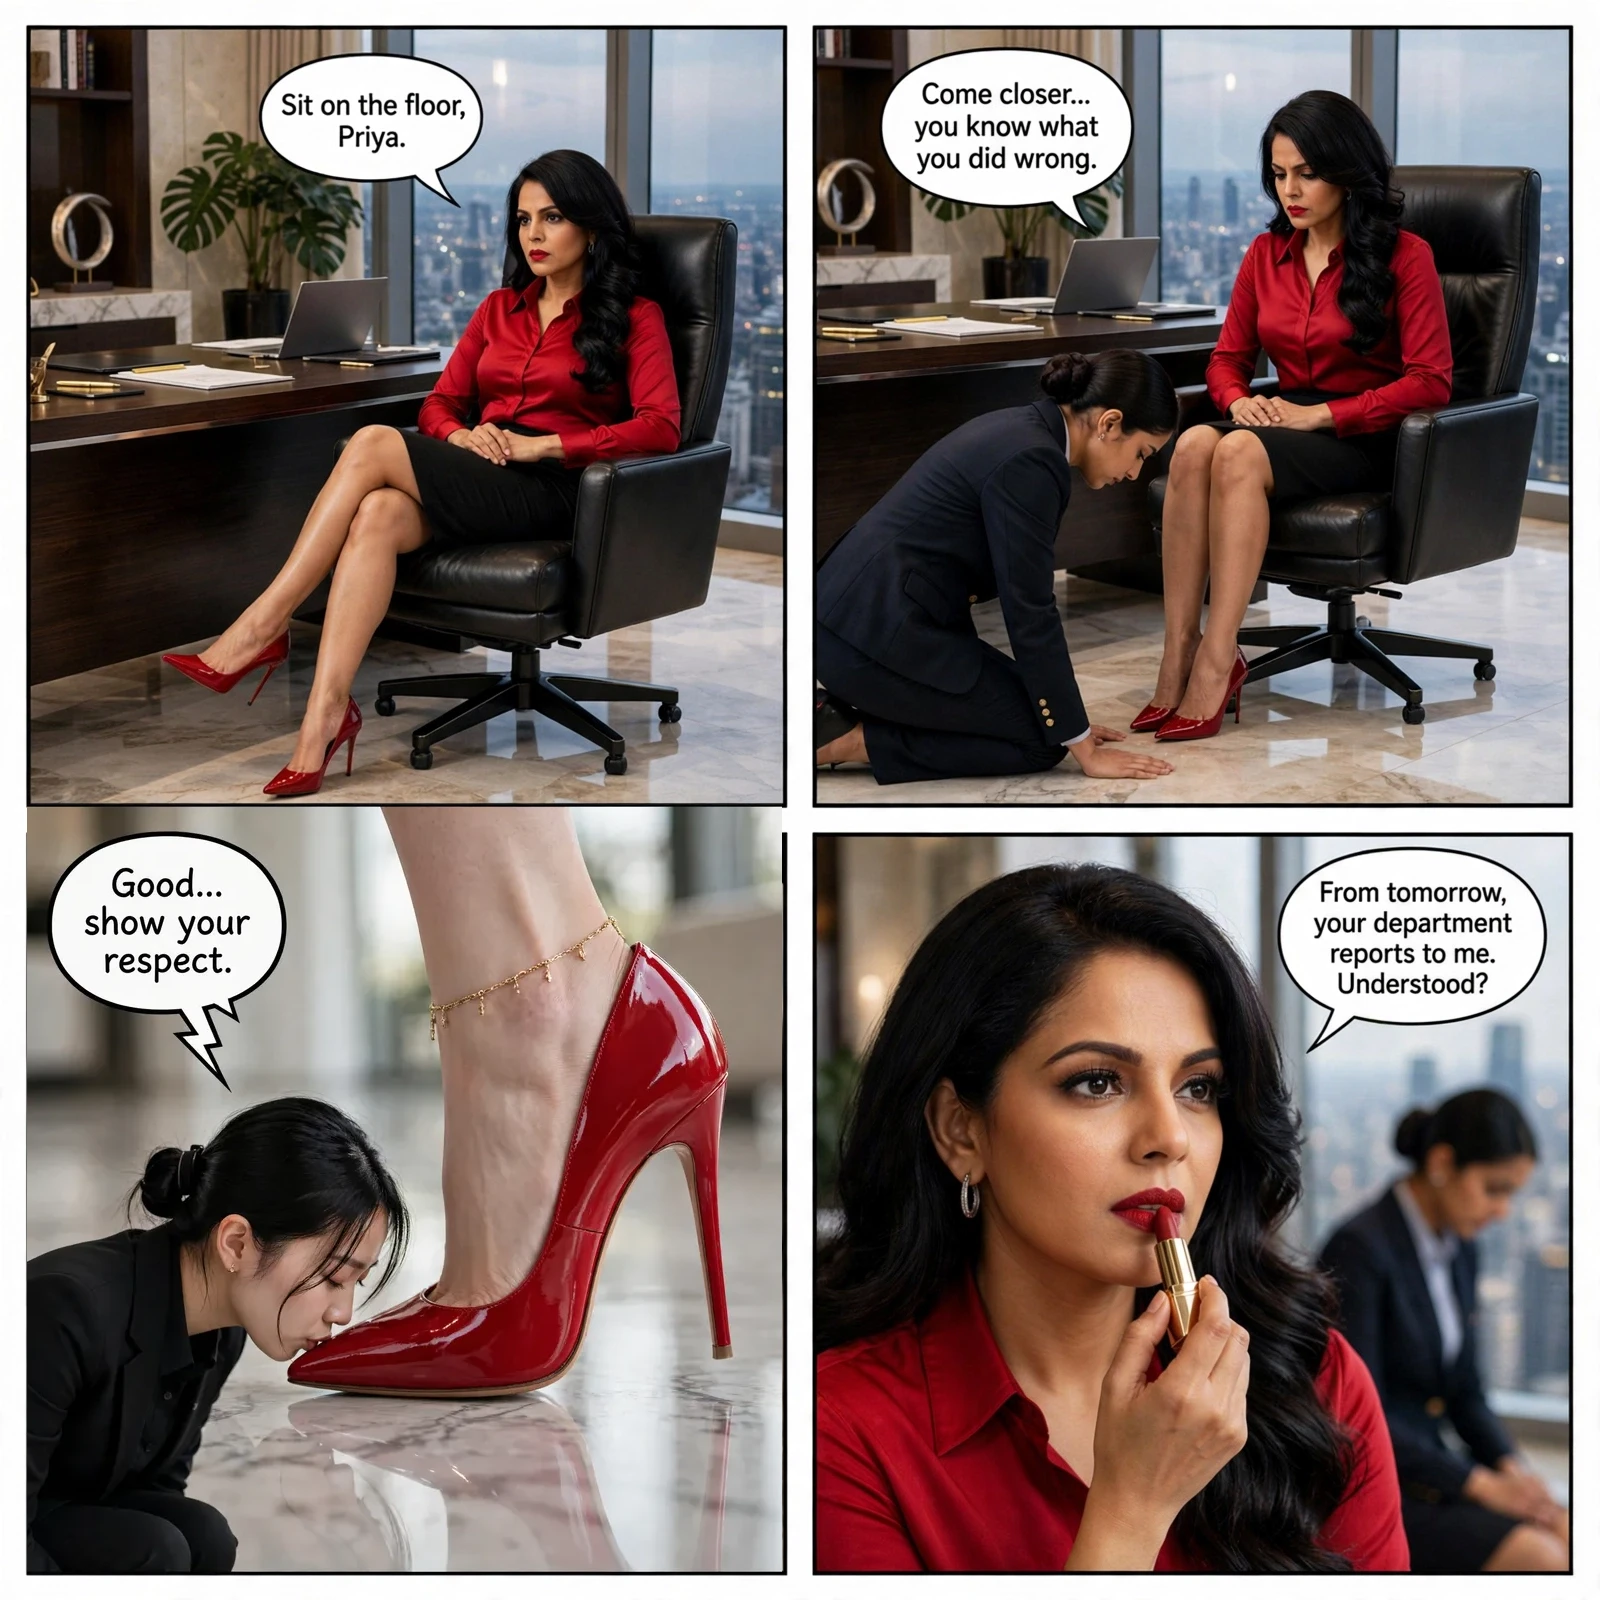
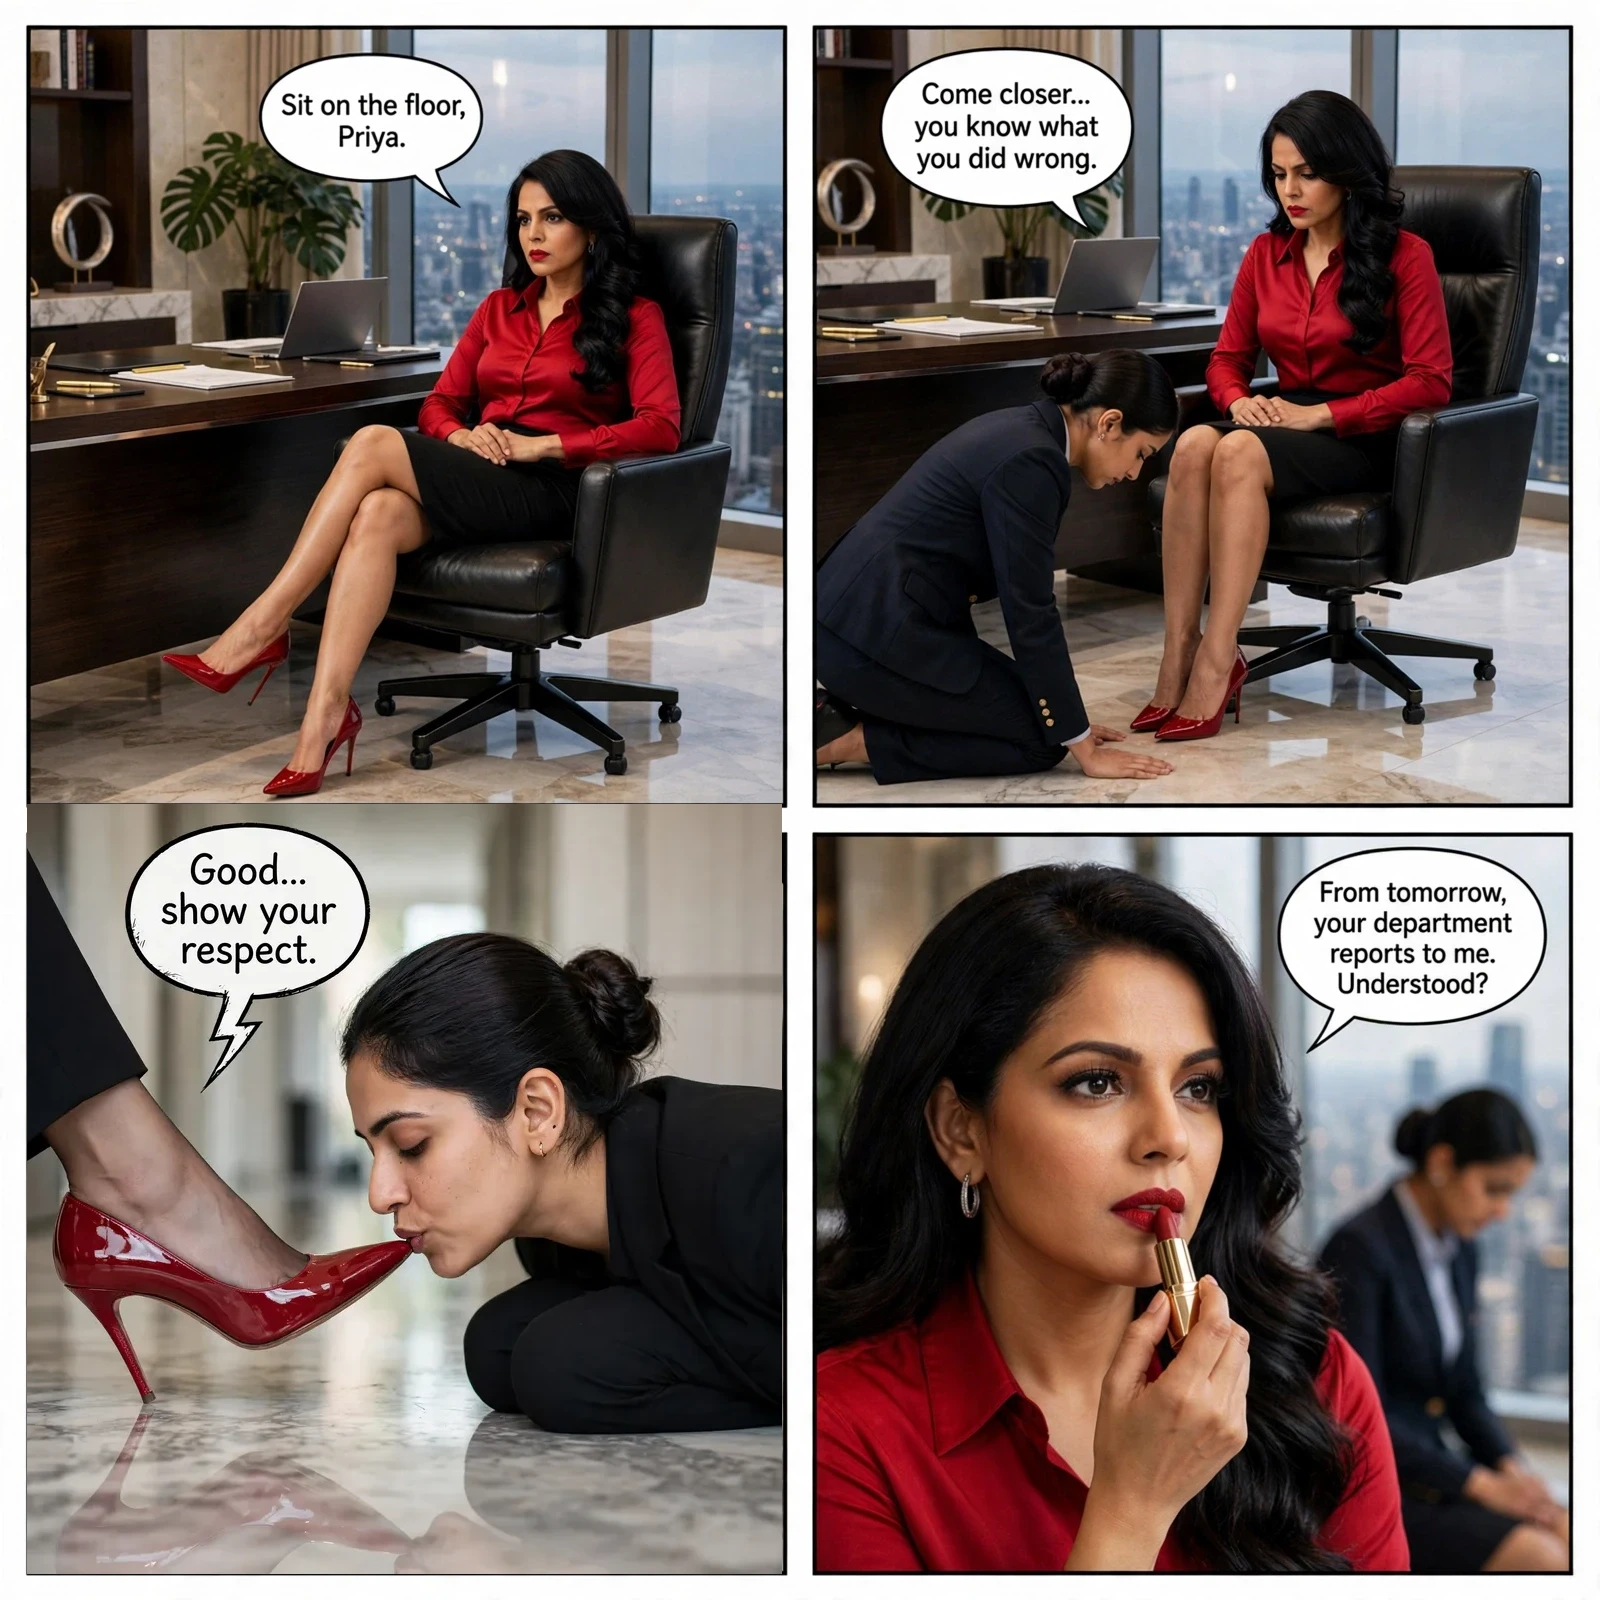
feat(ep4): re-direct panel 3 with 85mm true-scale side profile and 1:1 natural foot-to-face proportion

Changed region(s): [[0.0, 0.5, 0.5, 1.0]]

diff --git a/memory.md b/memory.md
@@ -1450,3 +1450,12 @@ Users don't just generate disconnected one-off strips. They build **persistent c
   - Tightened `maxAttempts` to 2 with a fast 1-second backoff delay in `src/app/api/generate-image/route.ts`.
   - Added `signal: AbortSignal.timeout(25000)` to prevent unbounded request hangs.
   - Enhanced error handling in `src/app/page.tsx` so that 504 timeouts are caught gracefully with explicit guidance to re-trigger generation. Production build verified clean.
+
+### Episode 4: Panel 3 Re-Direct — 85mm True-Scale Side Profile (2026-11-02)
+- **Problem**:
+  - The previous Panel 3 suffered from wide-angle lens distortion (camera parked too close with low wide lens), causing the stiletto to balloon unnaturally in the foreground while Priya's head shrank in the background.
+- **Solution & Re-Direct**:
+  - Replaced wide-angle perspective with an 85mm telephoto side-profile compression, eye-level to floor.
+  - Aligned Namita's pointed red patent stiletto and Priya's adult face (max 35yo, dark hair bun, plump cheeks) on the exact same focal plane in true 1:1 natural anatomical scale.
+  - Priya's lips touching the pointed red leather tip, with polished marble floor reflections and speech balloon intact (`"Good... show your respect."`).
+  - Composited the true-scale macro into Panel 3 of `public/episodes/ep4_namita_office_ritual.webp` and pushed to `main`.
